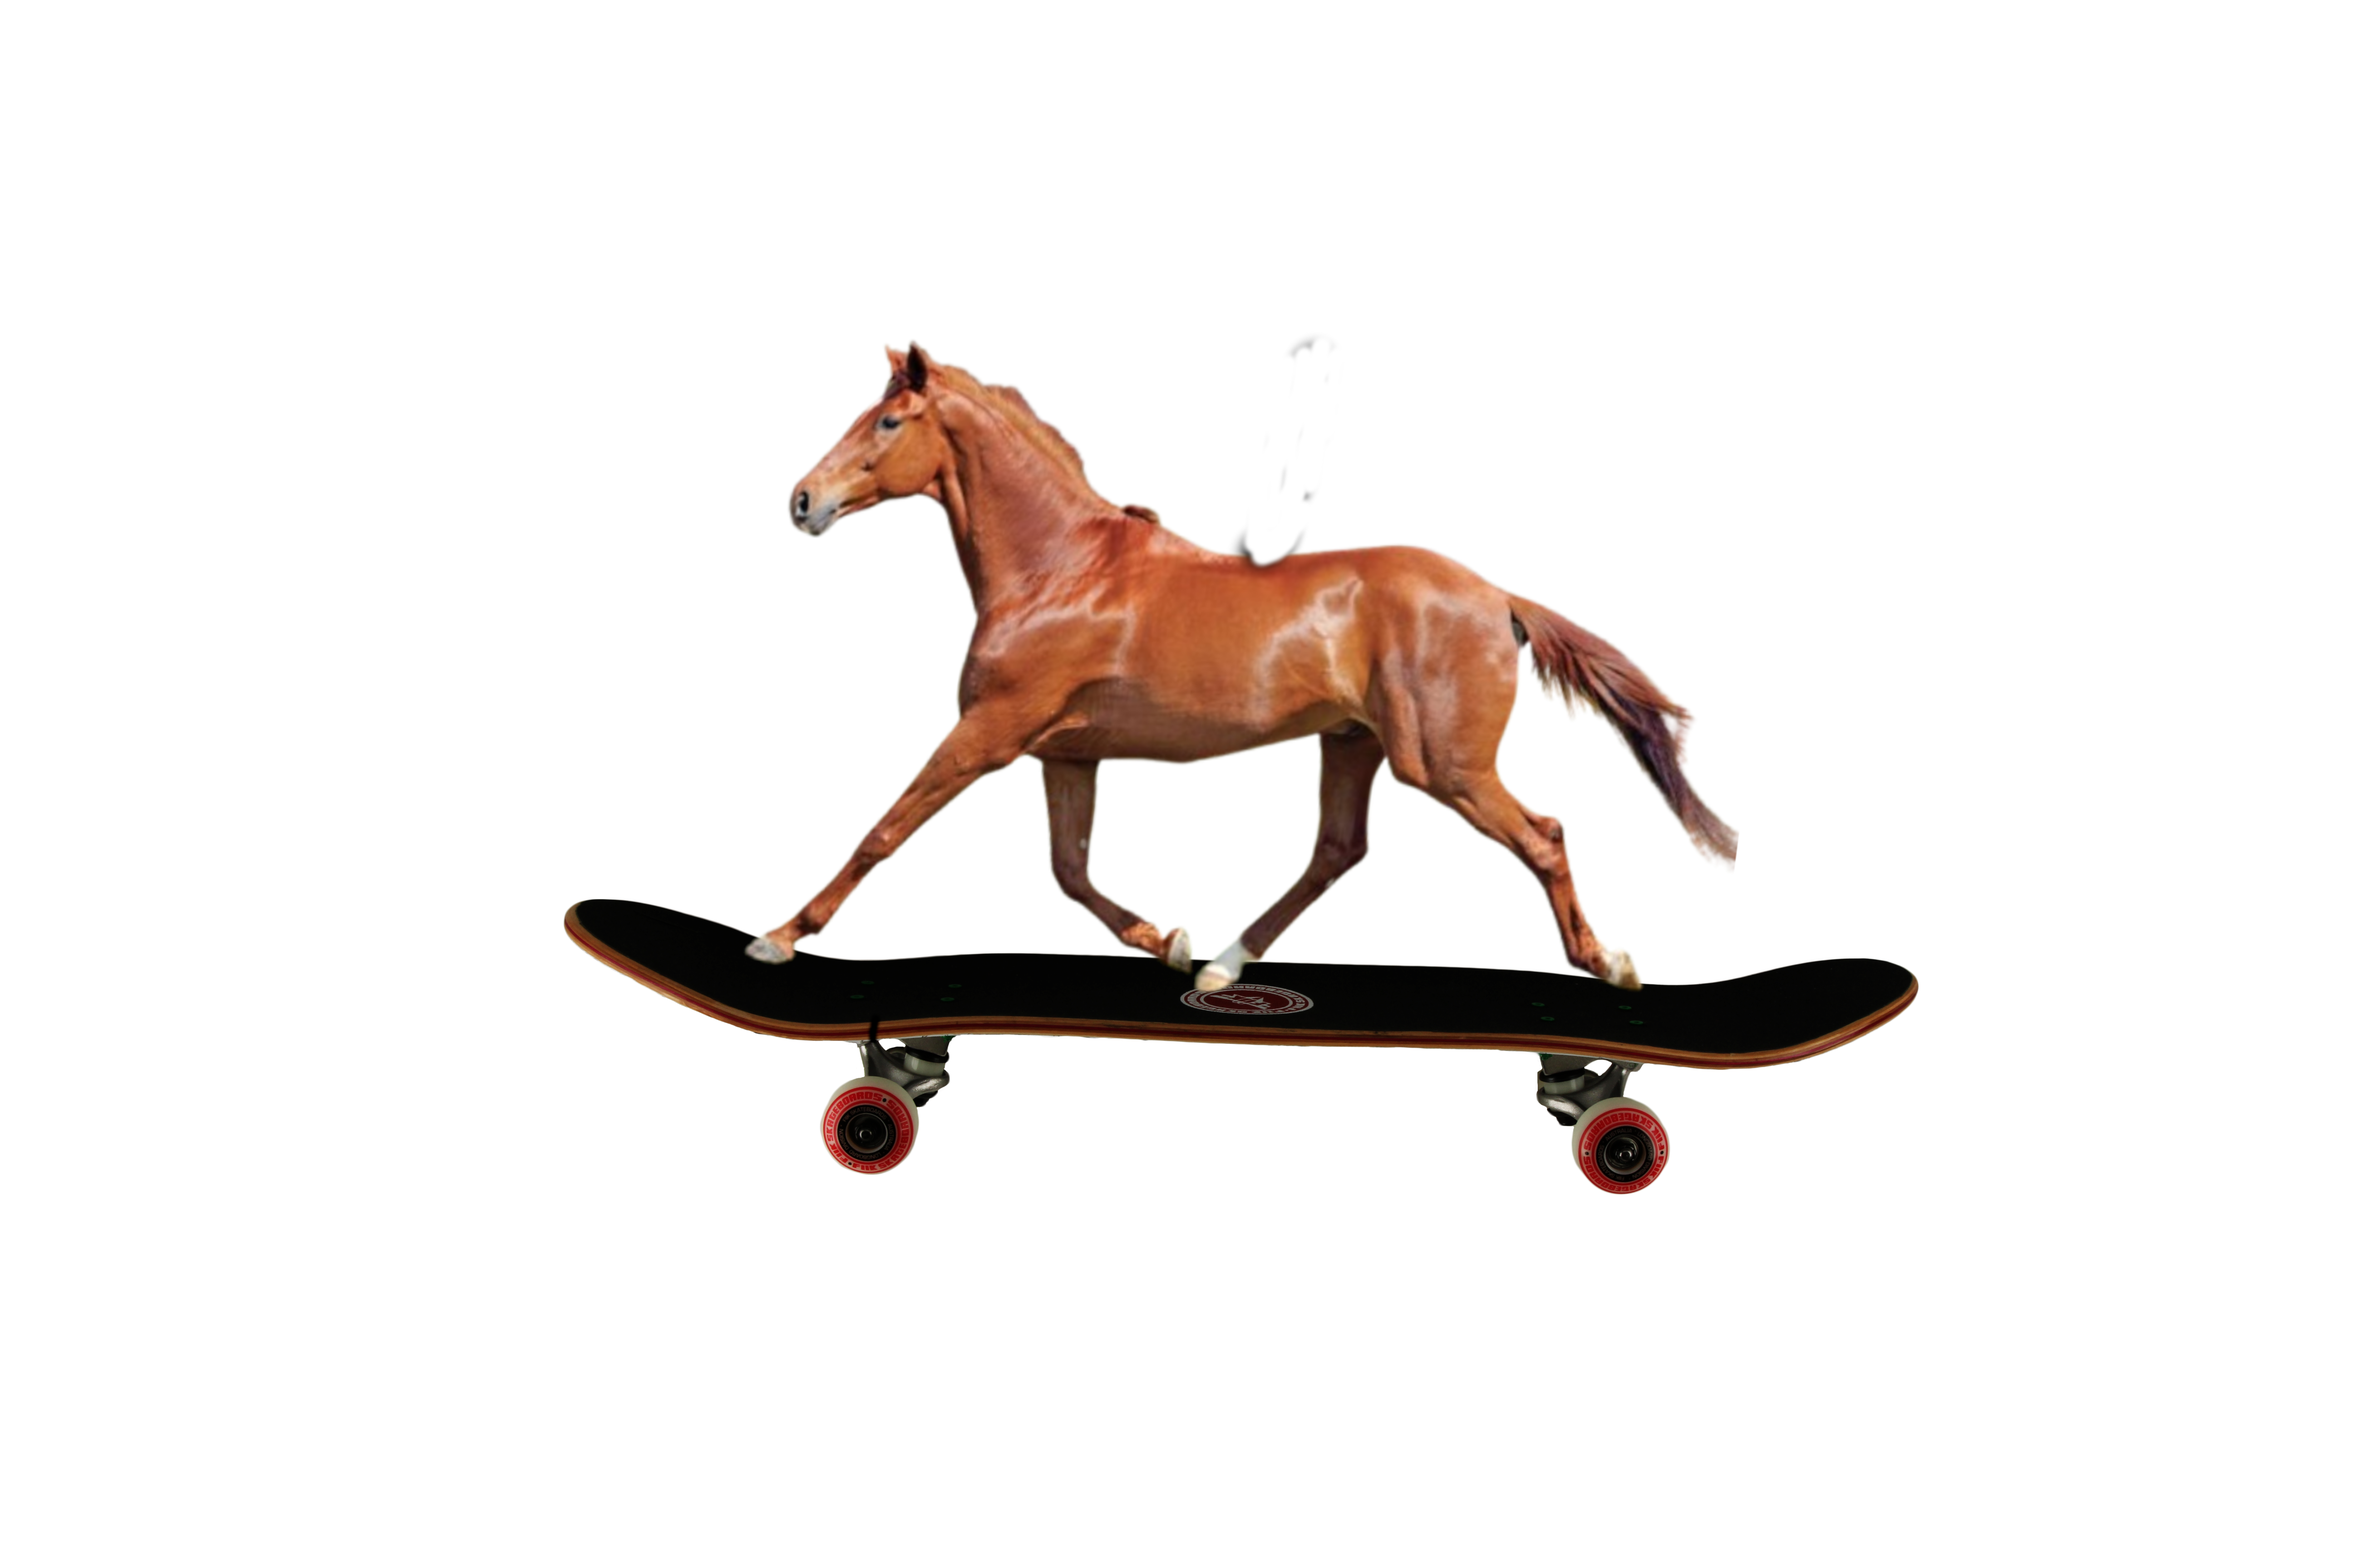
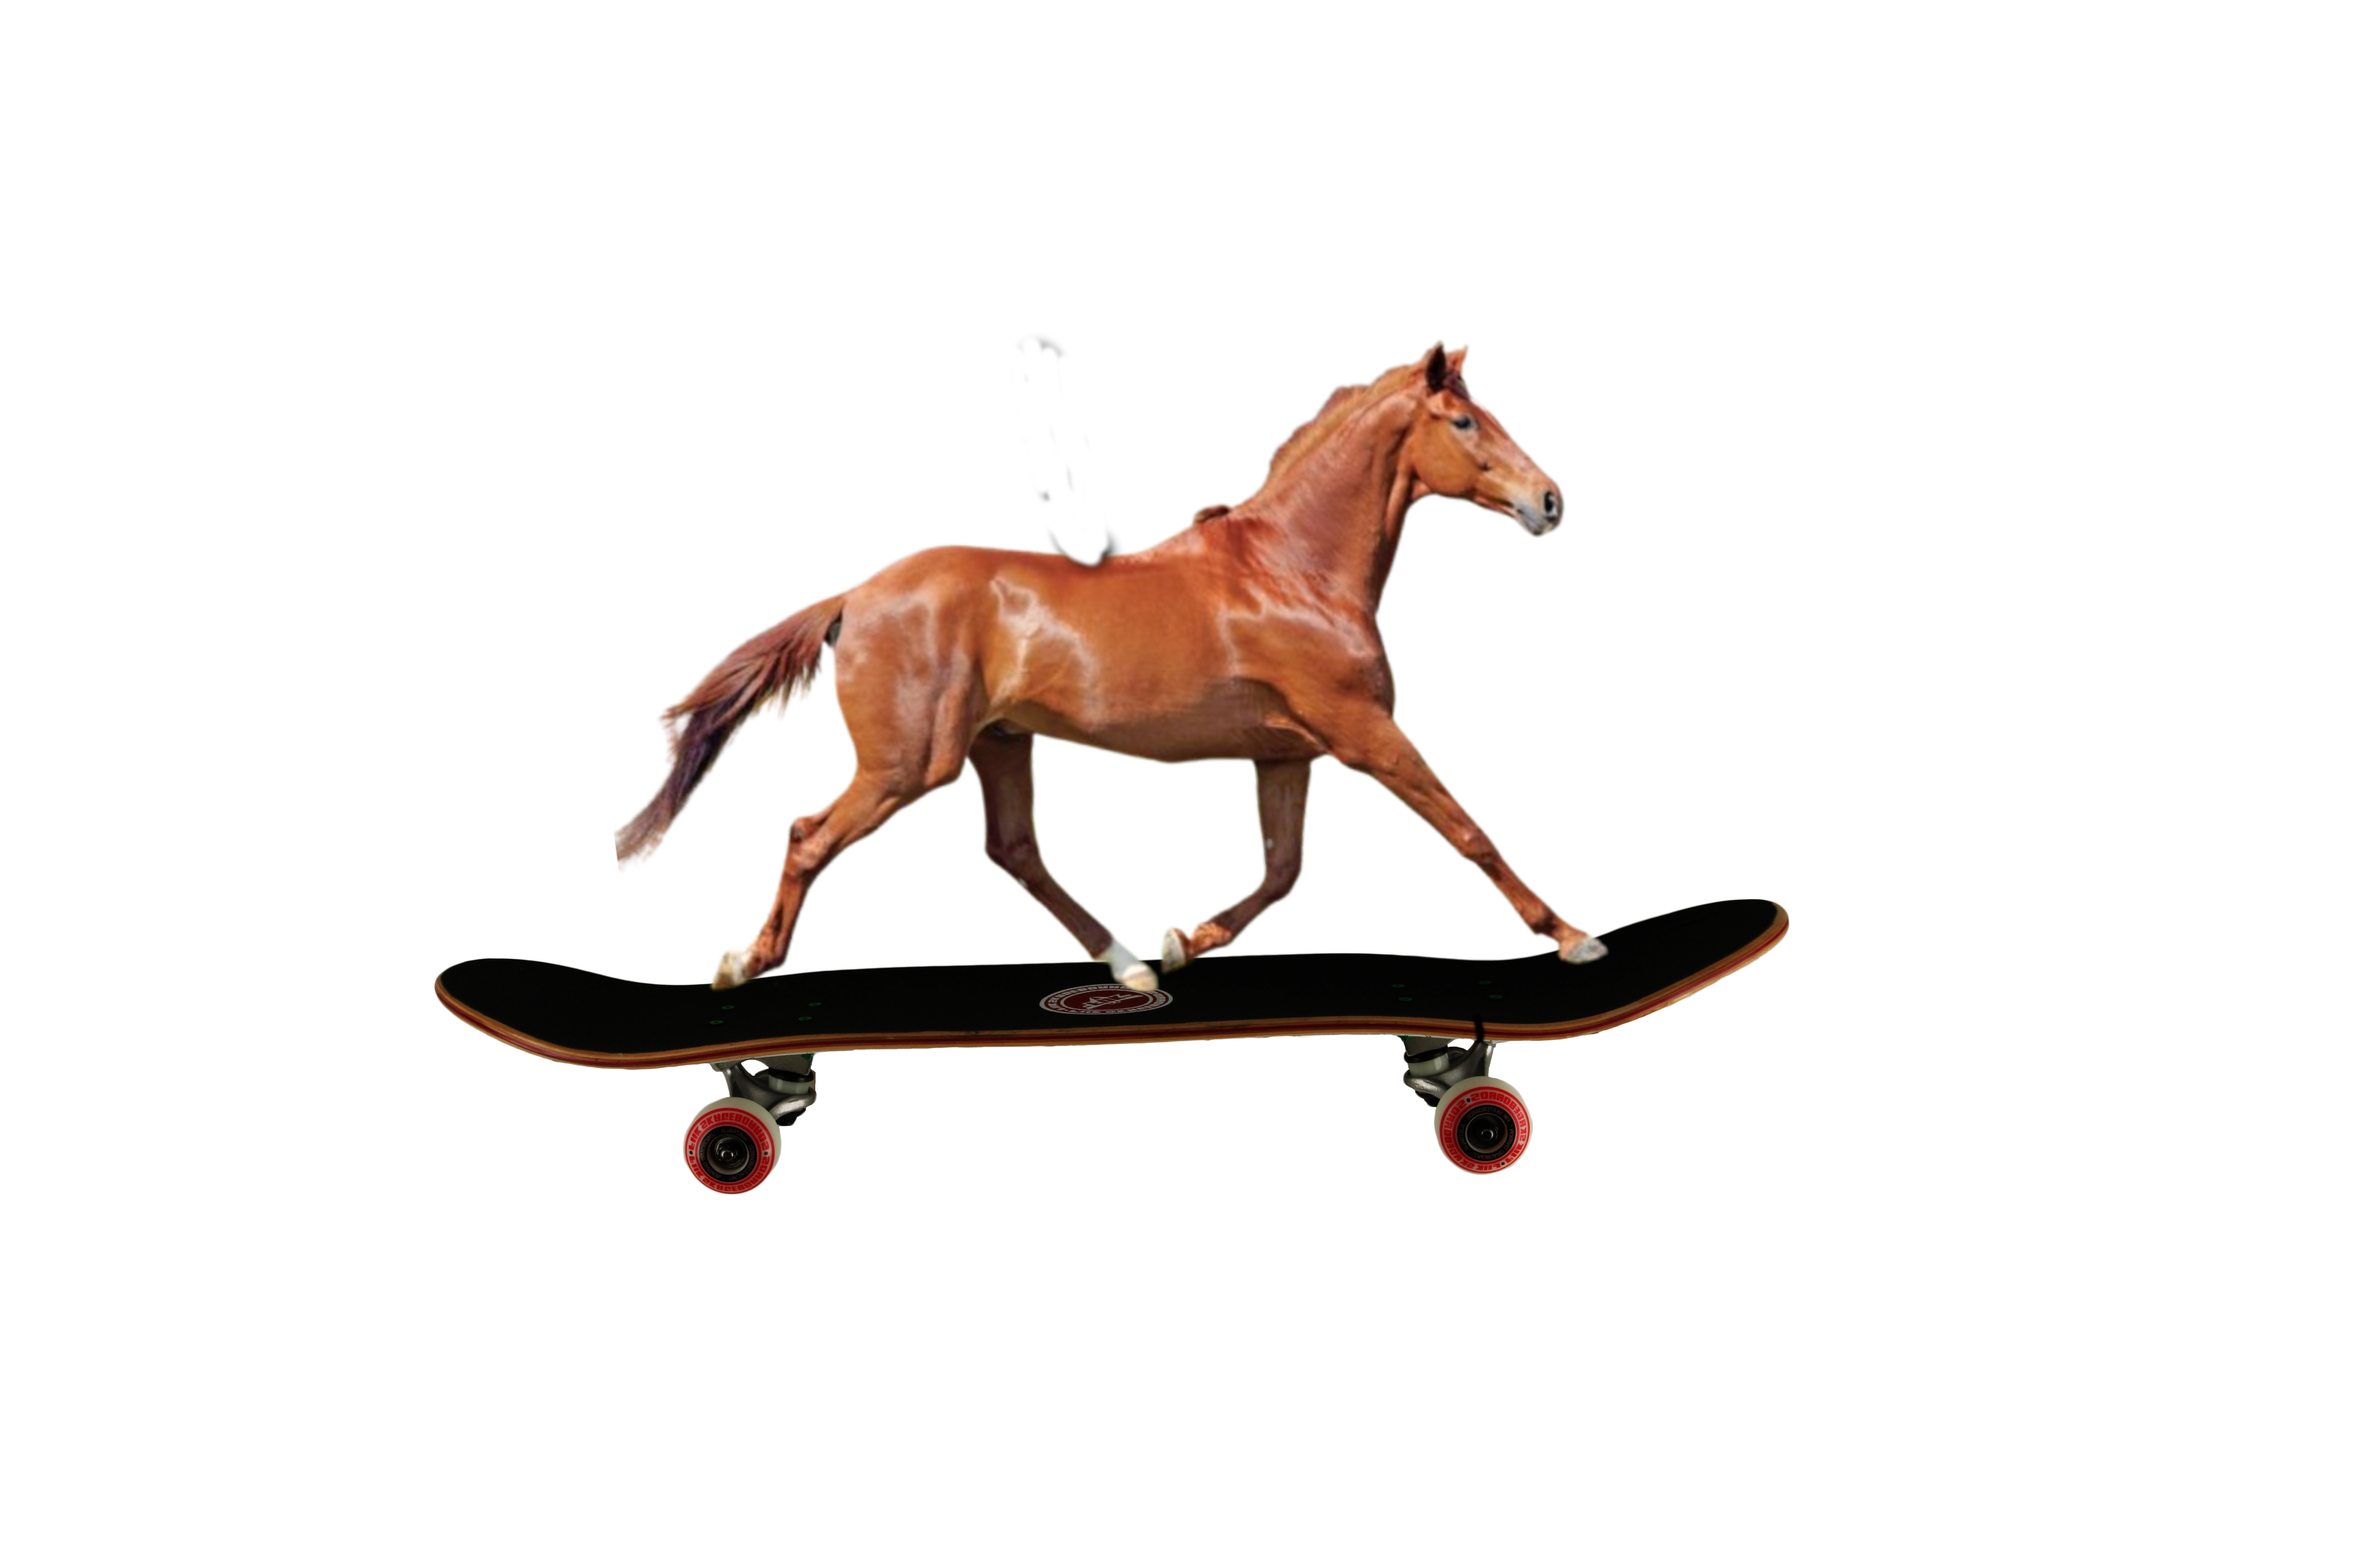
Add files via upload

Changed region(s): [[0.1875, 0.2188, 0.8125, 0.7812]]

diff --git a/public/X-webpage.html b/public/X-webpage.html
@@ -8,13 +8,14 @@
 <h1 align="center" id="explosion"><img src="explosion.gif" width="1000" height="1000"></h1>
 <h1 align="center" id="lowtier"><img src="lowtiergod.png" width="1000" height="1000"></h1>
 <h1 align="center" id="lighting"><img src="blue.GIF" width="1000" height="1000"></h1>
+<h1 align="center" id="skateboard"><img src="horseskateboard.png" width="1000" height="800"></h1>
 <body>
 <style>#Whale1{  
  position: relative;
  animation-name: myAnimation;
   animation-duration: 8s;
   animation-direction: reverse;  
-  animation-iteration-count: 2;
+  animation-iteration-count: 99;
   z-index: 1;
 }
 #horse1{
@@ -97,6 +98,18 @@ bottom: 0;
   opacity: 0%;
   animation-delay: 16s;
 }
+#skateboard{
+  z-index: 5;
+  position: relative;
+  top: -1500;
+  left: -1200px;
+  animation-name: SkateBoard;
+  animation-duration: 12s;
+  animation-direction: reverse;
+  animation-iteration-count: 1;
+  animation-delay: 21s;
+}
+
 @keyframes myAnimation {
   0%   {left:0px; top:0px;}
   25%  {left:500px; top:0px;}
@@ -126,10 +139,14 @@ bottom: 0;
   100%{opacity: 0%;}
   0%{opacity: 100%;}
 }
+@keyframes SkateBoard{
+  100%{left:-1200;}
+  0%{left: 2300px}
+}
 body{
  background-image: url(https://cdn.wallpapersafari.com/98/65/JT1jNk.jpg);
  height: 100%;
- overflow: hidden;}
+ overflow: visible;}
 </style>
 </body>
 
